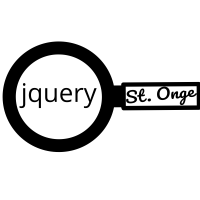
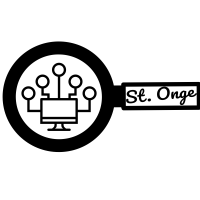
added images

Changed region(s): [[0.09, 0.3, 0.51, 0.66]]

diff --git a/index.html b/index.html
@@ -54,7 +54,7 @@
                         <span class="icon-bar"></span>
                     </button>
                     
-                    <a href="#hero" class="site-logo"><img id="logo" src="" alt="logo"></a>
+                    <a href="#hero" class="site-logo"><img id="logo" src="assets/img/stongeIcon(11).png" alt="logo"></a>
 
                 </div><!-- /.navbar-header -->
 

diff --git a/assets/css/responsive.css b/assets/css/responsive.css
@@ -164,7 +164,8 @@
 	}
 
 	.site-logo img {
-		height: 22px;
+		height: 100px;
+		margin-top: -10px;
 	}
 
 	/* Navigation */
